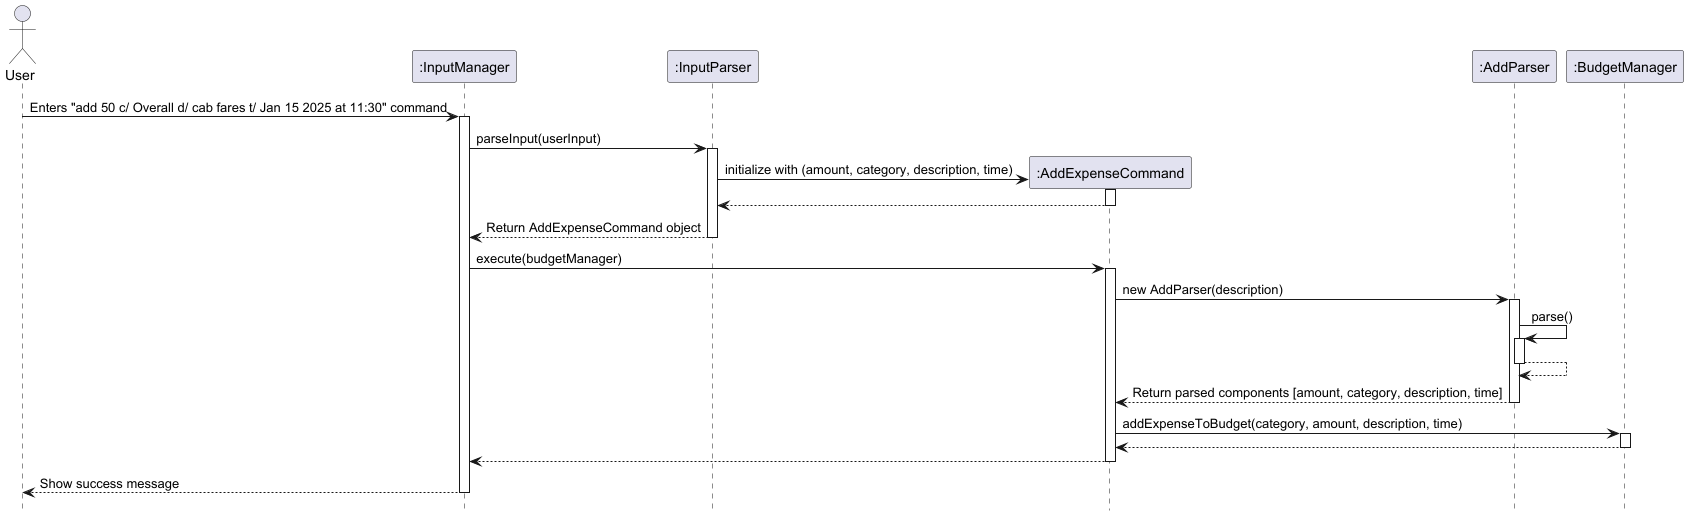
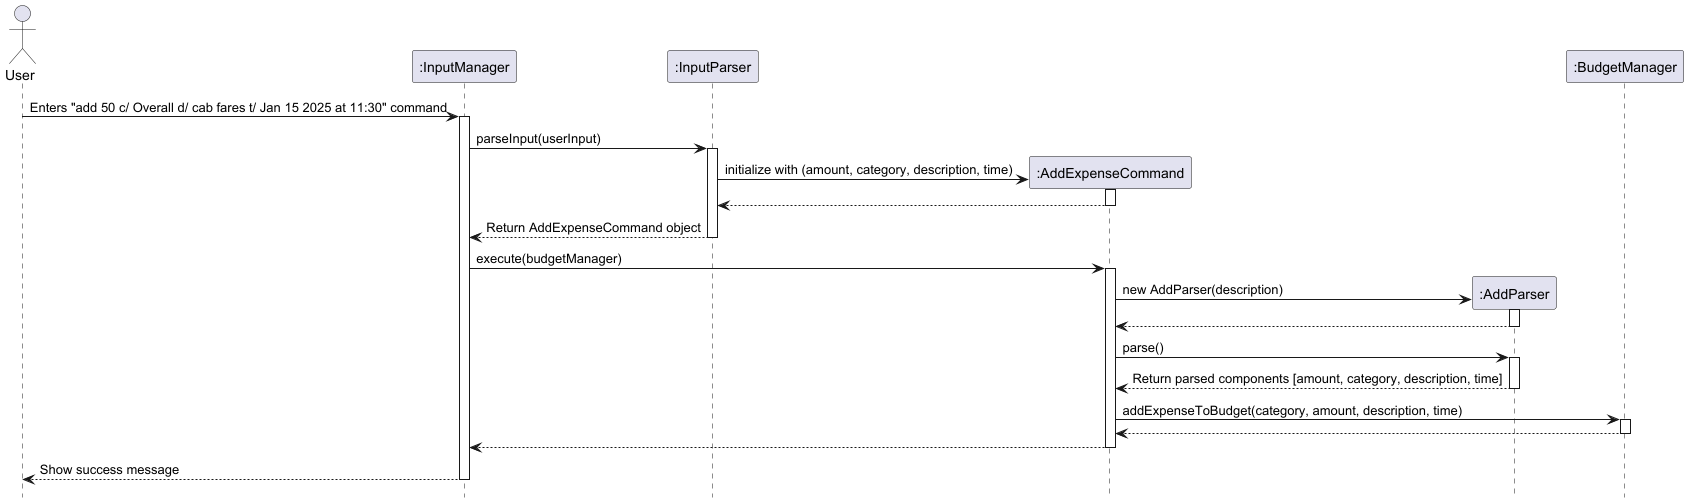
Fix diagrams in DG, and update DG  and PPP

diff --git a/docs/team/ae-24.md b/docs/team/ae-24.md
@@ -47,6 +47,8 @@ different commands without the need for redundant code.
 `AlertCommand`, `DeleteAlertCommand`, `EditAlertCommand`, `EditBudgetCommand`, `EditExpenseCommand`, `ExitCommand`, and 
 `BudgetSummary`.
 * Implemented warnings to trigger whenever total expenses hit or exceed the budget limits.
+* Set up GitHub team org and repo
+* Helped with maintaining of issue tracker
 
 ### Developer Guide
 * Added details under the **Design** section documenting code flow of how commands are processed through the
@@ -58,11 +60,11 @@ different commands without the need for redundant code.
 * Added sequence diagram of execution of `edit-expense` command within `BudgetManager`
 * Added Non-Functional requirements
 * Added user stories
-* Set up GitHub team org and repo
-* Helped with maintaining of issue tracker
+* Helped fix diagrams
 
 ### User Guide
 * Added description, formatting and examples for `add` function
 * Added description, formatting and examples for `edit-expense` function
+
 ### Code Contributed
 * View my code contribution [here](https://nus-cs2113-ay2425s2.github.io/tp-dashboard/?search=t12&sort=groupTitle&sortWithin=title&timeframe=commit&mergegroup=&groupSelect=groupByRepos&breakdown=true&checkedFileTypes=docs~functional-code~test-code~other&since=2025-02-21&tabOpen=true&tabType=authorship&tabAuthor=ae-24&tabRepo=AY2425S2-CS2113-T12-4%2Ftp%5Bmaster%5D&authorshipIsMergeGroup=false&authorshipFileTypes=docs~functional-code~test-code~other&authorshipIsBinaryFileTypeChecked=false&authorshipIsIgnoredFilesChecked=false).

diff --git a/docs/DeveloperGuide.md b/docs/DeveloperGuide.md
@@ -212,7 +212,7 @@ The diagram below outlines the process of execution when `FindCommand` is execut
 
 ### Set Budget
 The diagram below outlines the process of execution when `SetBudgetCommand` is executed.
-![SetBudgetSequenceDiagram](/docs/diagrams/SetBudgetSequenceDiagram.png)
+![SetBudgetSequenceDiagram](diagrams/SetBudgetSequenceDiagram.png)
 
 ### Edit Budget
 The diagram below outlines the process of execution when `EditBudgetCommand` is executed.
@@ -224,13 +224,13 @@ The diagram below outlines the process of execution when `CheckBudgetCommand` is
 
 ### Add Alert
 The diagram below outlines the process of execution when `AddAlertCommand` is executed.
-![AddAlertSequenceDiagram](/docs/diagrams/AddAlertSequenceDiagram.png)
+![AddAlertSequenceDiagram](diagrams/AddAlertSequenceDiagram.png)
 ### Edit Alert
 The diagram below outlines the process of execution when `EditAlertCommand` is executed.
-![EditAlertSequenceDiagram](/docs/diagrams/EditAlertSequenceDiagram.png)
+![EditAlertSequenceDiagram](diagrams/EditAlertSequenceDiagram.png)
 ### Delete Alert
 The diagram below outlines the process of execution when `DeleteAlertCommand` is executed.
-![DeleteAlertSequenceDiagram](/docs/diagrams/DeleteAlertSequenceDiagram.png)
+![DeleteAlertSequenceDiagram](diagrams/DeleteAlertSequenceDiagram.png)
 
 ### Summary
 The diagram below outlines the process of execution when `SummaryCommand` is executed.
